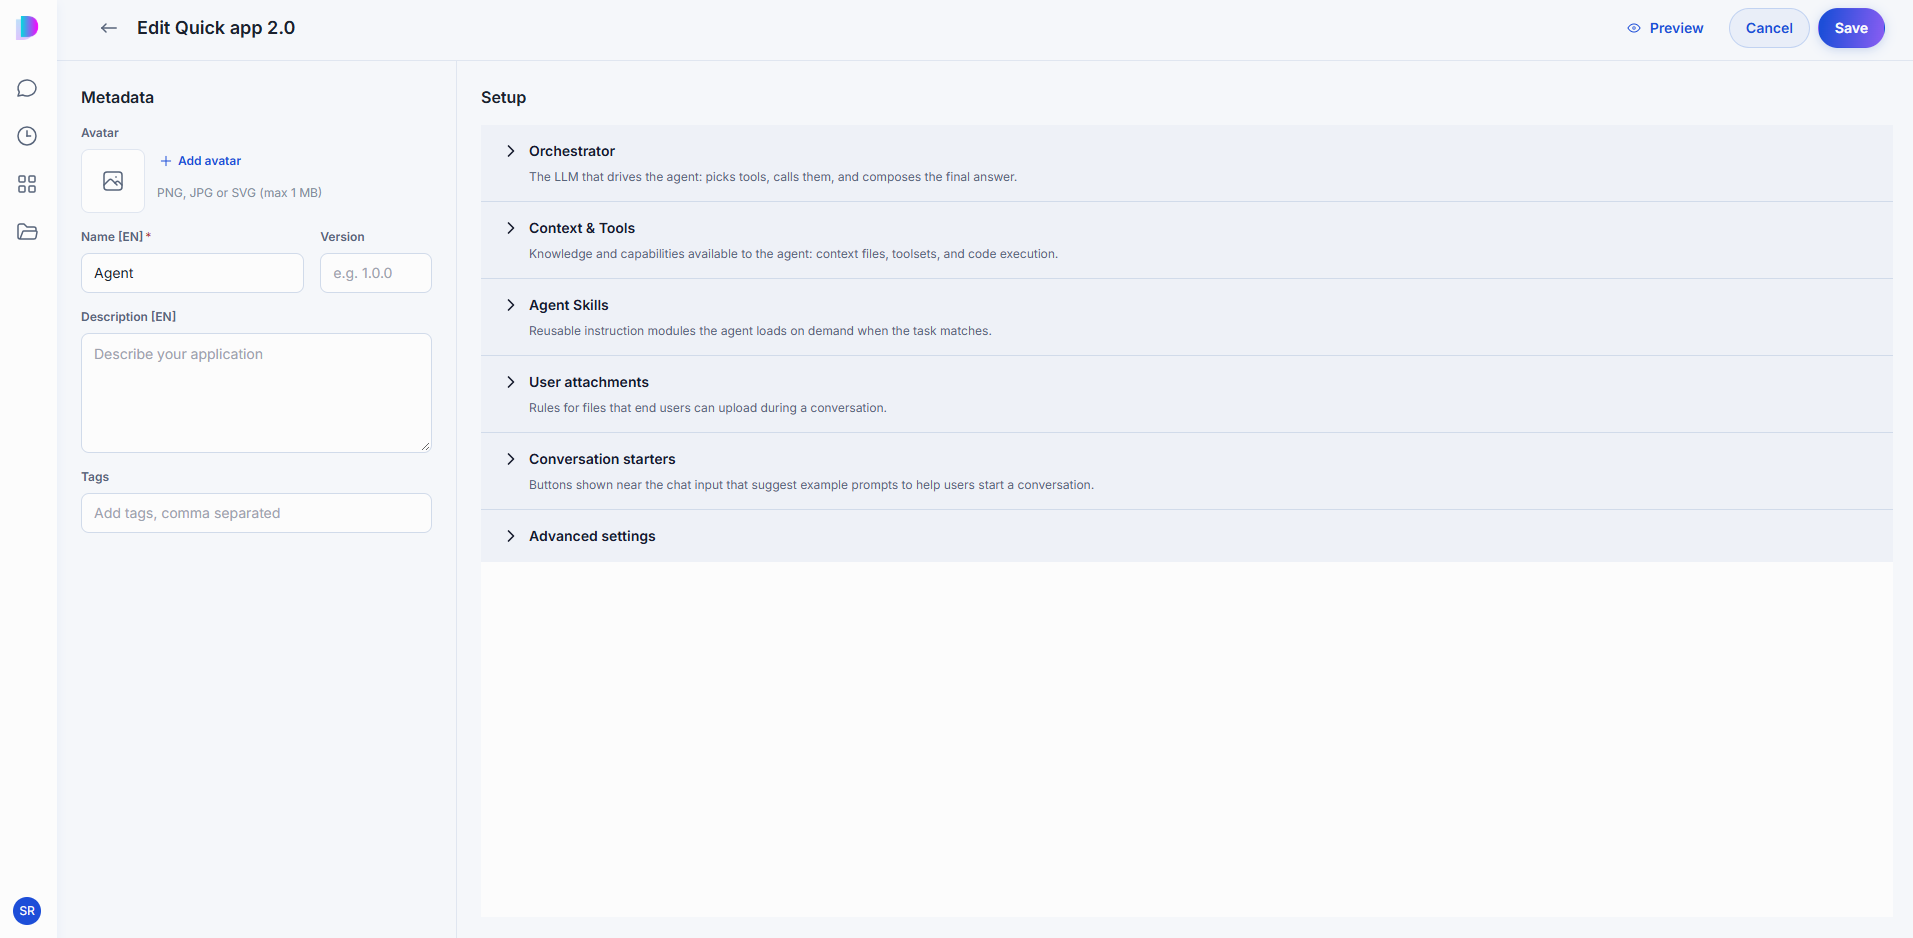
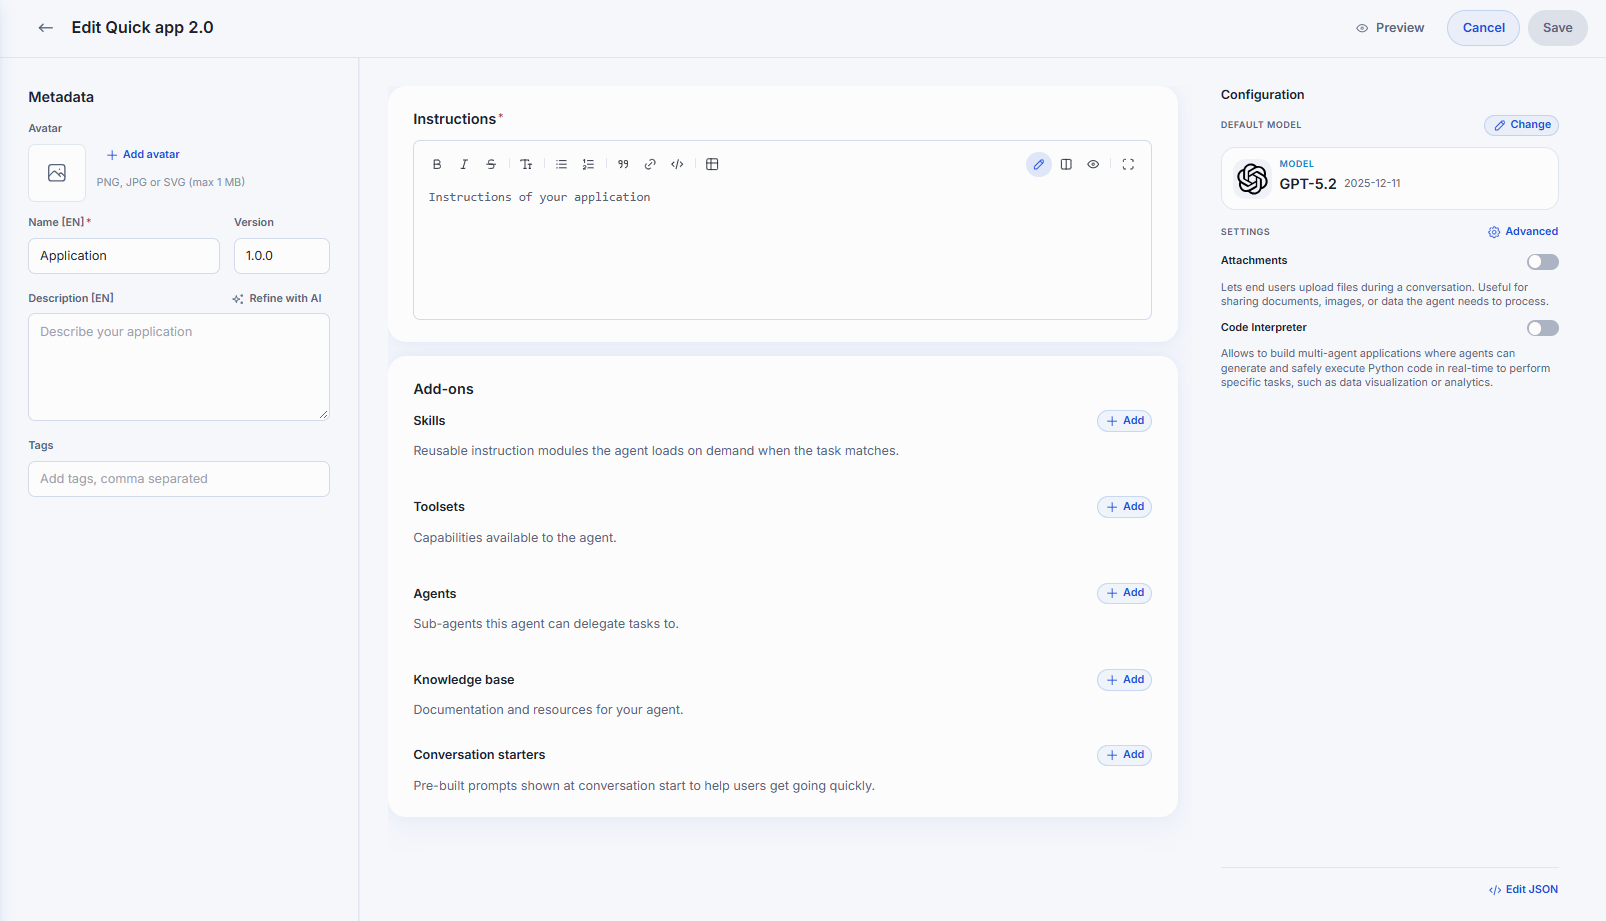
quick apps updates

diff --git a/docs_v2/chat-user-guide-new/3.catalog/2.agents.md b/docs_v2/chat-user-guide-new/3.catalog/2.agents.md
@@ -129,9 +129,9 @@ You can use other DIAL models and agents as building blocks in your agent's work
 **Note**
 > For the developer's view of Quick Apps, including the JSON behind the editor, see [Quick Apps](../../3.building-with-dial/1.apps/2.quick-apps/0.index.md).
 
-The editor has two sections on one screen: **Metadata** on the left and **Setup** on the right.
+The editor has three columns on one screen: **Metadata** on the left, **Instructions** and **Add-ons** in the middle, and **Configuration** on the right. The top bar has **Preview**, **Cancel**, and **Save**.
 
-![The Quick App editor, with Metadata on the left and Setup sections on the right](img/quickapp-general-step.png)
+![The Quick App editor, with Metadata on the left, Instructions and Add-ons in the middle, and Configuration on the right](img/quickapp-general-step.png)
 
 #### Metadata
 
@@ -145,20 +145,9 @@ How the agent presents itself in the Catalog and in chat.
 | Description | No | A short summary shown on the card and in the About tab. You can use [Refine with AI](./0.index.md#refine-text-with-ai). |
 | Tags | No | Topics that help people find the agent when filtering the Catalog. |
 
-#### Setup
+#### Instructions
 
-Everything about how the agent behaves, grouped into collapsible sections.
-
-![The Setup section with the Orchestrator section expanded](img/quickapp-settings-step.png)
-
-**Orchestrator** — the model that drives the agent: it picks tools, calls them, and composes the final answer.
-
-| Field | Description |
-|-------|-------------|
-| Model | The model that replies to prompts and orchestrates everything else. |
-| Temperature | How predictable the answers are, from Precise to Creative. |
-| Instructions | The standing instructions the model follows in every conversation. |
-| Process files | When enabled, the orchestrator can read files attached to a conversation. |
+The standing instructions the model follows in every conversation. They are required. The editor accepts Markdown and has a formatting toolbar, with edit, split, preview, and full-screen views.
 
 **Tips for writing Instructions:**
 
@@ -167,35 +156,66 @@ Everything about how the agent behaves, grouped into collapsible sections.
 - If tools are connected, tell the model when and how to use them.
 - Use `{{variable}}` syntax for values that may change across deployments.
 
-**Context & Tools** — knowledge and capabilities available to the agent: context files, toolsets, and code execution.
+#### Add-ons
+
+Add-ons are what the agent can use besides the model itself. Each row has an **Add** button. Items you add are listed in the row. Click an item to see its details, or remove it.
+
+| Add-on | What it is |
+|--------|------------|
+| **Skills** | Reusable instruction modules the agent loads on demand when the task matches. See [Skills](./4.skills.md). |
+| **Toolsets** | Capabilities available to the agent: external tools and services, such as MCP servers. See [Toolsets](./3.toolsets.md). |
+| **Agents** | Other agents and sub-agents this agent can delegate tasks to. |
+| **Knowledge base** | Files the agent draws on when answering: documentation and resources for your agent. These are the agent's context files. |
+| **Conversation starters** | Buttons shown near the chat input that suggest example prompts to help users start a conversation. |
+
+**Skills, toolsets, and agents.** **Add** opens a window with the Catalog. Search it by name, or filter it by **My** or by topic, as in the Catalog itself. You can select several items, or select all of them, and confirm. A skill, toolset, or agent that was removed from the Catalog after you added it shows "This skill is no longer available", "This toolset is no longer available", or "This agent is no longer available".
+
+- **Toolsets.** If you are not signed in to a toolset, its row says "Authorize to use this toolset." Open the toolset to see its details: the **Tools** tab lists the tools with a search box and the number of tools, and the **Authentication** details let you sign in or change your API key.
+- **Agents.** Open an agent and go to its **Settings** tab, where **Connect via** lets you choose **MCP** or **Chat Completion** where the agent offers a choice.
+
+**Knowledge base.** **Add** opens the [File Manager](../4.files.md), where you pick the files the agent should draw on. Each file shows its path, and you can remove it from the knowledge base.
+
+**Conversation starters.** **Add** opens **Set up conversation starters**. Add a button for each starter, and drag buttons to reorder them.
+
+![The Set up conversation starters dialog: button label and prompt rows, an intro message, and the starter settings](img/quickapp-starters.png)
 
 | Field | Description |
 |-------|-------------|
-| Agents & Toolsets | Other agents and [toolsets](./3.toolsets.md) this agent may call. Advanced users can edit the same thing as JSON. |
-| Context files | Files the agent draws on when answering. |
-| Code Interpreter | Lets the agent run Python to compute or plot something. |
-| File tools | When enabled, the orchestrator can access, read, write, and edit files in the app's file context. |
-
-**Agent Skills** — reusable instruction modules the agent loads on demand when the task matches. See [Skills](./4.skills.md).
-
-**User attachments** — rules for files that end users can upload during a conversation.
-
-| Field | Description |
-|-------|-------------|
-| Attachment types | Allowed file types, given as [MIME types](https://developer.mozilla.org/en-US/docs/Web/HTTP/Basics_of_HTTP/MIME_types/Common_types). |
-| Max. attachments number | How many files one message may carry. |
-
-**Conversation starters** — buttons shown near the chat input that suggest example prompts to help users start a conversation.
-
-| Field | Description |
-|-------|-------------|
-| Button title | The label on the button. |
+| Button label | The label on the button. |
 | Prompt to send in chat | The prompt behind it. |
-| Intro text | A line shown above the buttons. |
-| Starters behavior | Send the prompt immediately, or drop it into the message box so the user can edit it first. |
-| Disable chat input | Restrict the conversation to the starters only. |
+| Intro message | A line shown above the buttons, for example "What do you want to talk about?" |
+| When starter is selected | **Send prompt to the chat** sends the prompt immediately. **Populate prompt in the chat input** drops it into the message box so the user can edit it first. |
+| Require a starter to start a new chat | Disables the chat input on a new chat until the user picks a starter. Typing works normally after that. |
 
-**Advanced settings** — **Time awareness** tells the agent the current date and time.
+The intro message and the settings are available once you have at least one starter.
+
+#### Configuration
+
+**Default model** is the model that drives the agent: it picks tools, calls them, and composes the final answer. It replies to prompts and orchestrates everything else. Click **Change** to open the models catalog. You can search it, sort it by **Recently updated**, **Newest**, or **Name A-Z**, and filter it with **My** or **Topics**. Open a model to see its pricing and limits.
+
+**Settings** has two switches and a link to more options:
+
+| Setting | Description |
+|---------|-------------|
+| Attachments | Lets end users upload files during a conversation. When it is on, you list the allowed file types as [MIME types](https://developer.mozilla.org/en-US/docs/Web/HTTP/Basics_of_HTTP/MIME_types/Common_types). At least one type is required. |
+| Code Interpreter | Lets the agent run Python to compute or plot something. It allows multi-agent applications where agents generate and safely run Python code in real time, for example for data visualization or analytics. |
+| Advanced | Opens **Advanced settings**. |
+
+![The Advanced settings window](img/quickapp-advanced-settings.png)
+
+**Advanced settings** has these options. Click **Save** to apply them, or **Close** to leave without applying.
+
+| Field | Description |
+|-------|-------------|
+| Temperature | How predictable the answers are, from Precise to Creative. It is available only for models that allow it. |
+| Maximum attachments amount user can add | How many files one message may carry. It matters only when Attachments is on. It must be a whole number greater than 0. |
+| Time awareness | Gives the agent the current date and time, so it understands references like "today", deadlines, and schedules. |
+| Built-in file tools | Lets the agent browse, search, read, and edit files within the app's file context. It includes write access, so review it for agents that handle sensitive files. |
+| Process files | The agent handles attachments by reading file content on demand, instead of putting all attachment content in the first prompt. This lets the agent read the files attached to a conversation. |
+| Add attachments to the orchestrator response | Includes the files the agent produced in its response, so users can open them next to the answer. |
+| Fetch web resources | Lets the agent retrieve content from web links and use it in its answers. |
+
+**Edit JSON**, at the bottom of **Configuration**, opens the agent's whole configuration as one JSON document. Edit it directly to set or read a field that the editor has no control for. Use the icons in the header to copy the JSON or download it as a file, for example to reuse this agent's structure in another one. Click **Save** to apply your changes to the editor, or **Cancel** to discard them. **Save** is unavailable while the JSON is not valid, and the editor says why, for example "Invalid JSON", "The configuration must be a JSON object.", or "Invalid configuration". Your changes take effect for the agent when you click **Save** in the editor.
 
 #### Preview
 

diff --git a/docs_v2/chat-user-guide-new/1.conversations.md b/docs_v2/chat-user-guide-new/1.conversations.md
@@ -63,13 +63,31 @@ Click the **+** (**Add**) icon next to the message composer for everything you c
 
 ### Attachments
 
-Attachment support depends on the agent. When an agent supports files and folders, attach them from the **Add** menu.
+Attachment support depends on the agent. When an agent supports files and folders, attach them from the **Add** menu. You can also drag files onto the chat page, paste an image from your clipboard, or paste a long text.
 
 ![The Attach files dialog, with a file selected from My Files](img/attach-files-dialog.png)
 
 The attachment appears in the message composer, above the text box, and becomes available to the agent when you send your message.
 
 ![The message composer showing an attached file, ready to send](img/attached-file.png)
+
+A file is uploaded the moment you add it. While it uploads, its tile shows **Uploading**. Click **Remove attachment** on a tile to take it out before you send. If an upload fails, click **Retry upload**.
+
+**Pasted images and text**
+
+- **Image** — an image you paste, such as a screenshot, is attached as `Screenshot` followed by the date and time.
+- **Long text** — text longer than 4,000 characters is not pasted into the text box. DIAL Chat attaches it as a text file named `Pasted text`, followed by the date and time, with the extension `.txt`. Click **Expand pasted text** on the tile to put the text into your message instead. This happens only when the agent accepts text files. Otherwise the text is pasted as usual.
+
+**When an attachment is refused**
+
+| Message | What it means |
+|---|---|
+| **Attachments not supported** | The selected agent does not accept file attachments. |
+| **File extension not supported** | The file's type is not one the agent accepts. The attachment turns red above the text box and a warning pop-up lists the formats the agent can process. Remove the attachment and add a file in one of those formats. |
+| **File too large** | The file is over the size limit, and the message gives it. Upload a smaller file. A file that is too large is refused before it is uploaded. |
+| **Network unavailable** | Your connection was lost during an upload. Click **Retry upload** when it is back. |
+
+Which file types an agent accepts, and how many files one message can carry, are set by the agent's owner in the editor, in **Attachment types** and **Max. input attachments**. See [Create an agent](./3.catalog/2.agents.md#create-an-agent). You cannot attach more files than that limit: a warning pop-up appears and tells you the limit. Hidden files cannot be attached.
 
 **Note**
 > Attached files are also available in the [File Manager](./4.files.md).
@@ -122,6 +140,15 @@ There are two ways to use your voice, and they produce different results:
 - Click the confirm control to stop. The recording is attached to your message as an audio file, which you can play back to check it before sending.
 - The recording is not transcribed. The agent receives the audio.
 
+While **Dictate** converts your speech, the composer shows **Transcribing audio…**. If something goes wrong, DIAL Chat shows one of these messages:
+
+| Message | What it means |
+|---|---|
+| "Could not transcribe audio. Please try recording again." | The speech could not be converted to text. Record it again. |
+| "Speech recognition is temporarily unavailable. Please try again later." | The speech recognition service is busy. |
+| "Voice input is not available." | Voice input is not set up for you. |
+| "Audio recording exceeds the limit. Please shorten the recording and try again." | The recording is over the size limit, which the message gives. Record a shorter one. |
+
 In both modes a waveform replaces the text box while you record. You cannot type or send until you stop. Click the discard icon to cancel without sending anything; your draft text and any existing attachments are preserved.
 
 **Note**
@@ -141,6 +168,9 @@ Each response shows a row of action icons, in this order: **Regenerate**, **Copy
 
 **Note**
 > The list of available feedback types can change over time.
+
+**Note**
+> A code block longer than 50,000 characters, or with a line longer than 2,000 characters, is shown as plain text without syntax highlighting, so that the page stays responsive.
 
 ### Stages
 

diff --git a/docs_v2/chat-user-guide-new/5.sharing-and-publishing.md b/docs_v2/chat-user-guide-new/5.sharing-and-publishing.md
@@ -169,7 +169,7 @@ Unpublishing withdraws a published copy so the organization can no longer reach 
 
 ![A published agent under Organization, with Use in chat and Unpublish buttons](img/unpublish.png)
 
-**Unpublish** acts on the published copy, not on your private original, so it appears on the copy whoever published it: administrators see it on any copy, and so does anyone with write access to the folder the copy sits in. DIAL Chat asks you to confirm and names the folder. If the item is published in several folders, you choose which folder to unpublish it from. Like publishing, it's a request an administrator reviews before the copy is removed. When you confirm, everyone loses access to the published copy once the request is approved. Your own copy stays untouched, and you can publish again later.
+**Unpublish** acts on the published copy, not on your private original, so it appears on the copy whoever published it: administrators see it on any copy, and so does anyone with write access to the folder the copy sits in. DIAL Chat asks you to confirm and names the folder. Like publishing, it's a request an administrator reviews before the copy is removed. When you confirm, everyone loses access to the published copy once the request is approved. Your own copy stays untouched, and you can publish again later.
 
 **Note**
 > Published **conversations** work differently: only the person who published a conversation sees **Unpublish** on it, in the **Organization** tab of the Chats list.

diff --git a/docs_v2/chat-user-guide-new/3.catalog/4.skills.md b/docs_v2/chat-user-guide-new/3.catalog/4.skills.md
@@ -19,7 +19,7 @@ The **Skills** tab of the [Catalog](./0.index.md) lists skills published across 
 
 There are two ways to use a skill.
 
-**Attach it to an agent.** When you build a [Quick App](./2.agents.md#build-a-quick-app), the **Agent Skills** section of the editor is where you pick the skills the agent may draw on. The agent then decides for itself when a task matches one — which is why a skill's description matters as much as its instructions: it is what the agent reads to recognize the moment to use it.
+**Attach it to an agent.** When you build a [Quick App](./2.agents.md#build-a-quick-app), the **Skills** row in **Add-ons** is where you pick the skills the agent may draw on. The agent then decides for itself when a task matches one — which is why a skill's description matters as much as its instructions: it is what the agent reads to recognize the moment to use it.
 
 **Use it directly in chat.** Click **Use in chat** on the skill's card in the Catalog. DIAL Chat opens a new conversation and adds the skill to the composer, so the agent applies the skill's instructions when you send your message. You can also add a skill from the chat input area: click **+** and choose **Skills**, or type `/` and pick the one you need. See [Use a skill in a message](../1.conversations.md#use-a-skill-in-a-message).
 

diff --git a/docs_v2/chat-user-guide-new/3.catalog/3.toolsets.md b/docs_v2/chat-user-guide-new/3.catalog/3.toolsets.md
@@ -20,7 +20,7 @@ The **Toolsets** tab of the [Catalog](./0.index.md) lists toolsets preconfigured
 
 ## Use a toolset
 
-You do not talk to a toolset directly — you attach it to an agent, and the agent calls its tools when needed. Open the [Quick App editor](./2.agents.md#build-a-quick-app), expand the **Context & Tools** section, and add the toolset under **Agents & Toolsets**. The orchestrator model then decides which tools to call based on the user's request.
+You do not talk to a toolset directly — you attach it to an agent, and the agent calls its tools when needed. Open the [Quick App editor](./2.agents.md#build-a-quick-app) and add the toolset under **Toolsets** in **Add-ons**. The orchestrator model then decides which tools to call based on the user's request.
 
 If the toolset requires authentication, sign in before it is used. You can sign in from the toolset's details panel, or when you start a conversation. See [Sign in when you start a conversation](#sign-in-when-you-start-a-conversation). An agent that tries to use a toolset you are not signed in to will report an authentication error.
 
